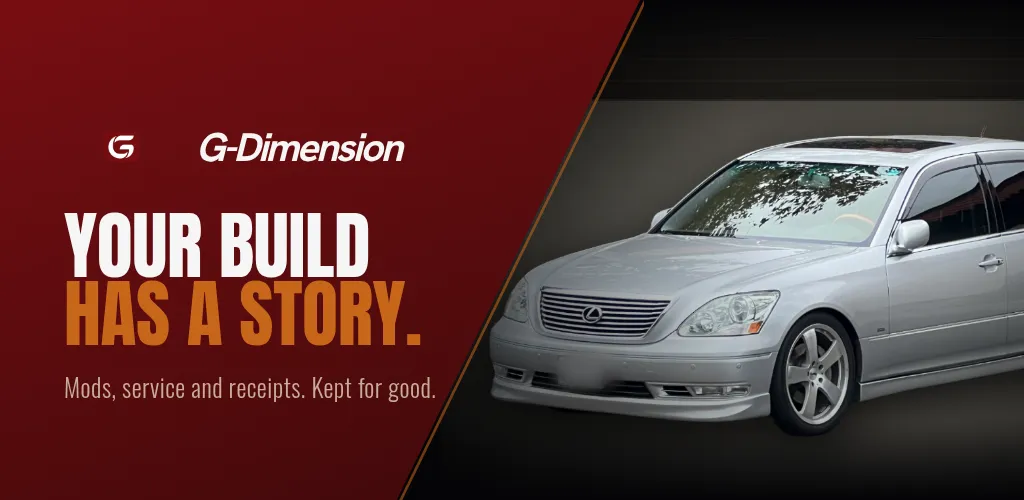
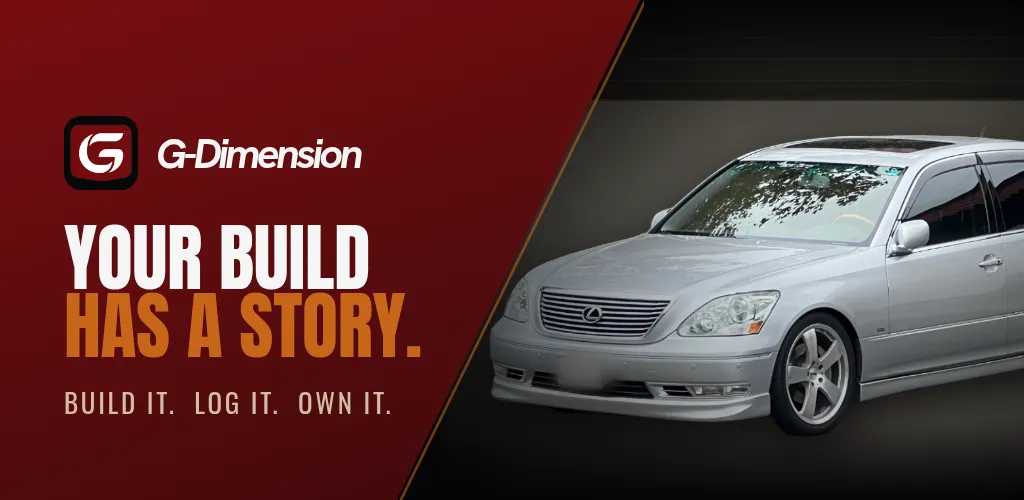
iOS ships iPhone-only, and three fixes to the feature graphic
TARGETED_DEVICE_FAMILY goes from Capacitor's default "1,2" to "1" in both build
configurations. Declaring iPad support would require a separate iPad screenshot
set in App Store Connect, and more seriously it puts the app in front of Apple
review ON an iPad — where a phone-first layout (100dvh stages, the Garage
carousel, bottom sheets sized to phone widths, CarStage's fixed 200px car in a
flex:1 stage) is stretched rather than adapted. The cost is close to zero:
iPhone-only apps still install and run on iPad in compatibility mode. Reasoning
and the path back to iPad are written up in CAPACITOR.md.

Feature graphic:
- The brand mark is now the app-icon tile rather than the bare badge. EVERY
  shield asset in the repo draws the shield in burgundy, so on the burgundy
  wedge it disappeared and left the white G floating with no shield behind it.
  The icon already ships that shield on its own near-black field, which is the
  contrast this needed, and it is the mark people actually tap.
- The wordmark was rendering as a FAKE oblique. The Google Fonts request asked
  for `Hanken+Grotesk:wght@...` with no `ital` axis, so the browser synthesised
  the italic — which is exactly why it read as the wrong typeface. It now
  requests the real italic and uses the canonical -0.085em tracking from
  StartSplash and the trading cards. panel.css carried the same stale -0.06em
  value on its (now unused) .wordmark rule; corrected too.
[…]

Changed region(s): [[0.0625, 0.42, 0.4375, 0.72], [0.0625, 0.21, 0.4062, 0.39], [0.0625, 0.75, 0.4375, 0.84]]

diff --git a/design/store-shots/feature-graphic.html b/design/store-shots/feature-graphic.html
@@ -4,7 +4,7 @@
 <meta charset="utf-8">
 <link rel="preconnect" href="https://fonts.googleapis.com">
 <link rel="preconnect" href="https://fonts.gstatic.com" crossorigin>
-<link href="https://fonts.googleapis.com/css2?family=Anton&family=Oswald:wght@200;300;400;500;600&family=Hanken+Grotesk:wght@400;500;600;700;800&display=swap" rel="stylesheet">
+<link href="https://fonts.googleapis.com/css2?family=Anton&family=Oswald:wght@200;300;400;500;600&family=Hanken+Grotesk:ital,wght@0,700;1,700;1,800&display=swap" rel="stylesheet">
 <style>
   /* Play Store feature graphic — 1024 × 500, and required.
      It is the most-seen asset on a Play listing and the one people forget.
@@ -62,10 +62,21 @@
 
   .type { position: absolute; left: 64px; top: 116px; z-index: 5; width: 520px; }
   .mark { display: flex; align-items: center; gap: 18px; }
-  .mark img { height: 62px; width: auto; display: block; }
+  /* The app icon tile, not the bare badge. Every shield asset in the repo is
+     burgundy, so on the burgundy wedge the shield vanished and only the white G
+     was left floating. The icon already ships the shield on its own near-black
+     field, which is exactly the contrast this needs — and it is literally the
+     mark people will tap on their home screen. */
+  .mark img {
+    height: 74px; width: 74px; display: block;
+    border-radius: 17px;
+  }
+  /* Canonical wordmark styling, matching StartSplash and the trading cards:
+     Hanken Grotesk italic 700 at -0.085em. The tight tracking is the whole
+     character of it. */
   .mark span {
     font-family: 'Hanken Grotesk', sans-serif; font-style: italic; font-weight: 700;
-    font-size: 40px; letter-spacing: -0.06em; color: #f5f5f5;
+    font-size: 42px; letter-spacing: -0.085em; color: #f5f5f5;
   }
   .headline {
     margin-top: 34px;
@@ -73,10 +84,13 @@
     text-transform: uppercase; color: #f5f5f5; letter-spacing: -0.005em;
   }
   .headline .warm { color: #c8661a; }
+  /* The site's own catchphrase (public/marketing.html), set with the spacing a
+     three-beat line wants. */
   .deck {
-    margin-top: 20px;
-    font-family: 'Oswald', sans-serif; font-weight: 300; font-size: 25px;
-    letter-spacing: 0.02em; color: rgba(240,228,200,0.75);
+    margin-top: 22px;
+    font-family: 'Oswald', sans-serif; font-weight: 400; font-size: 27px;
+    letter-spacing: 0.10em; text-transform: uppercase;
+    color: rgba(240,228,200,0.82);
   }
 </style>
 </head>
@@ -89,11 +103,11 @@
 
   <div class="type">
     <div class="mark">
-      <img src="../../src/assets/logo/gdimensionG.webp" alt="">
+      <img src="../../public/icon-512.png" alt="">
       <span>G-Dimension</span>
     </div>
     <div class="headline">Your build<br><span class="warm">has a story.</span></div>
-    <div class="deck">Mods, service and receipts. Kept for good.</div>
+    <div class="deck">Build it. &nbsp;Log it. &nbsp;Own it.</div>
   </div>
 </div>
 </body>

diff --git a/design/store-shots/panel.css b/design/store-shots/panel.css
@@ -178,7 +178,7 @@ html, body { background: #17181a; }
 .wordmark {
   position: absolute; right: 96px; bottom: 96px;
   font-family: 'Hanken Grotesk', sans-serif; font-style: italic; font-weight: 700;
-  font-size: 34px; letter-spacing: -0.06em; color: rgba(245,245,245,0.55);
+  font-size: 34px; letter-spacing: -0.085em; color: rgba(245,245,245,0.55);
 }
 .footer-line {
   position: absolute; left: 96px; right: 96px; top: calc(var(--footer-top) + 150px);

diff --git a/CAPACITOR.md b/CAPACITOR.md
@@ -64,6 +64,34 @@ store submission. Confirm it before that day.
 
 ---
 
+## iOS ships iPhone-only (for now)
+
+`TARGETED_DEVICE_FAMILY` in `ios/App/App.xcodeproj/project.pbxproj` is **`"1"`**
+(iPhone), set in both build configurations. Capacitor's default is `"1,2"`, which
+declares iPad support, and that default was changed deliberately on 2026-08-03.
+
+Two reasons:
+
+- **App Store Connect requires a separate iPad screenshot set** for any app that
+  declares iPad support. That is real work for a device the app is not designed
+  for yet.
+- **Apple review runs the app on an iPad.** G-Dimension is phone-first in ways
+  that are structural, not cosmetic: `100dvh` stages, the Garage carousel
+  geometry, bottom sheets sized to phone widths, and `CarStage`'s fixed 200px car
+  against a `flex: 1` stage. On a 13" screen that is stretched, not adapted — a
+  genuine rejection risk under the design guidelines, and a poor first impression
+  even if it passes.
+
+The cost is close to zero: **an iPhone-only app still installs and runs on iPad**
+in compatibility mode, letterboxed. iPad owners are not excluded; they get the
+phone layout in a window, which is roughly what they would have got anyway.
+
+**Doing iPad properly is app work, not a store-listing task** — real breakpoints
+for the Garage carousel, a two-column Build Sheet, Featured as an actual
+magazine spread. When that happens, flip this back to `"1,2"` and add the 13"
+screenshot set (the panel system in `design/store-shots/` takes a new target
+size cleanly — see `scripts/render-all-panels.mjs`).
+
 ## Native features
 
 ### 1. Recurring service reminders — SHIPPED
